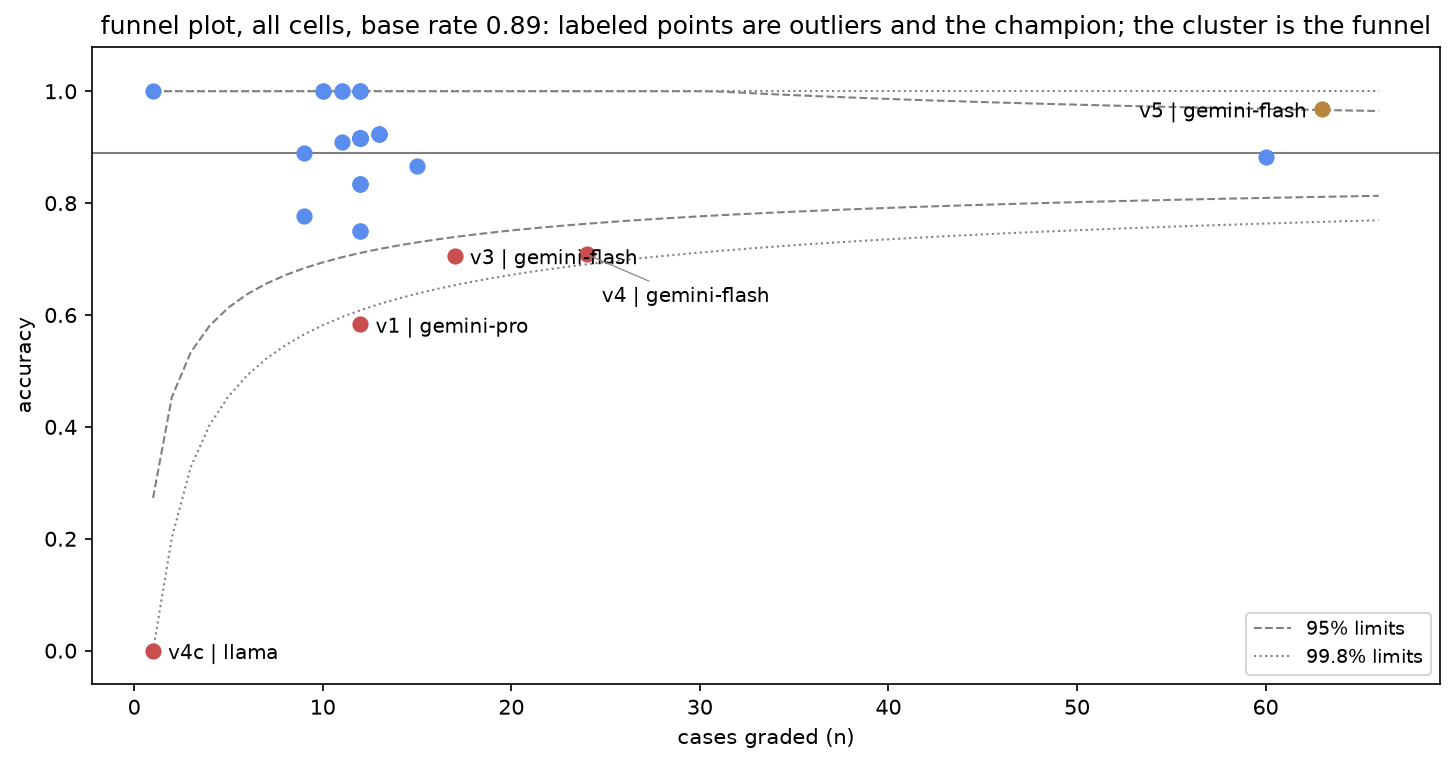
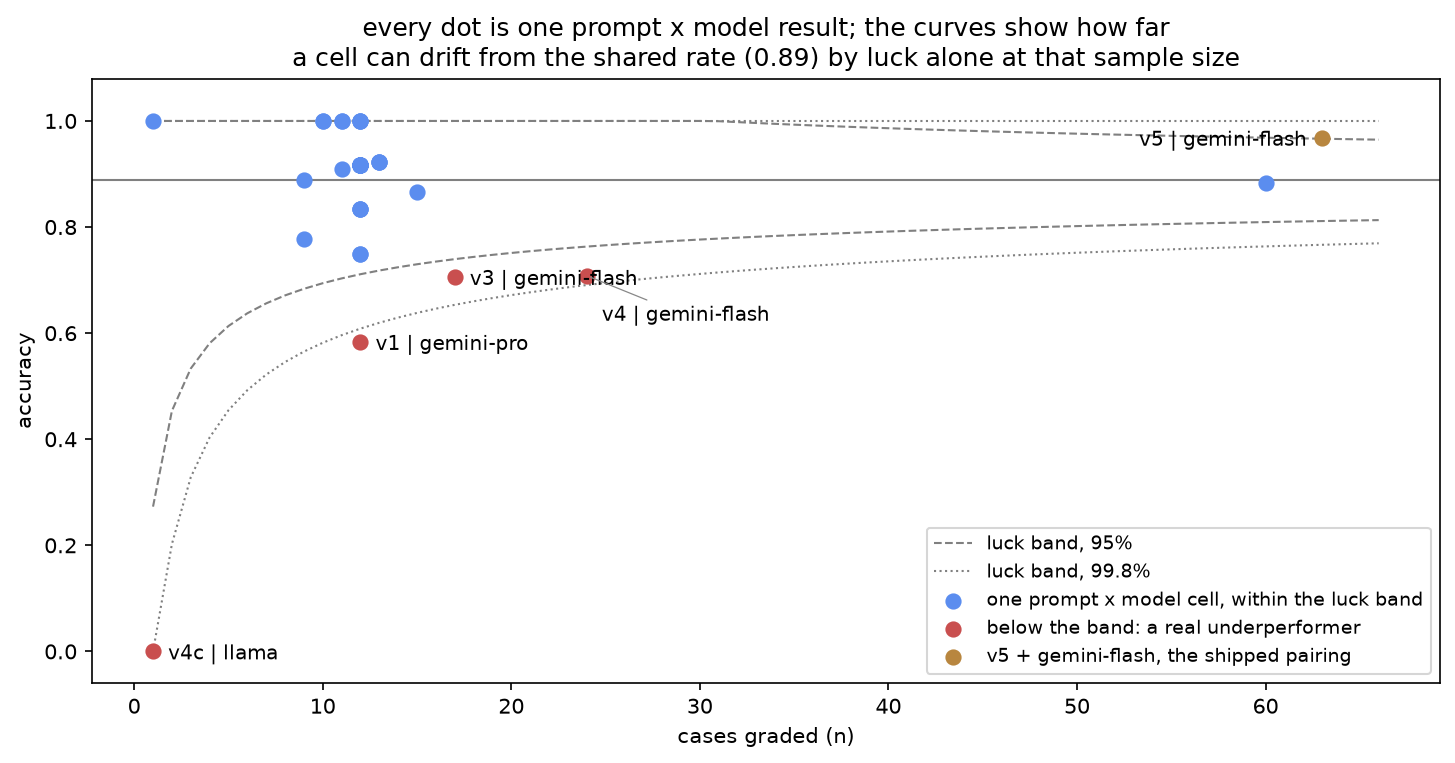
deck: drop the 00:15 build-story slide, self-explaining funnel legend
Operator: planning at 00:15 reads unprofessional to a hiring panel; the
slide is removed from all three deck surfaces and the pack renumbered to
22. Funnel legend now states what each color is (in-band cell, real
underperformer, shipped champion) and the title explains the luck-band
curves, so the plot presents without a narrator. Local only, lab remote
frozen.

Claude-Session: https://claude.ai/code/session_018zAm8oX3fmkFi1fCgmcaHM

diff --git a/tools/plot_funnel.py b/tools/plot_funnel.py
@@ -40,7 +40,7 @@ def main() -> None:
     fig, ax = plt.subplots(figsize=(9.8, 5.2))
     nmax = max(r[2] for r in rows)
     ns = list(range(1, nmax + 4))
-    for z, style, lab in ((1.96, "--", "95% limits"), (3.09, ":", "99.8% limits")):
+    for z, style, lab in ((1.96, "--", "luck band, 95%"), (3.09, ":", "luck band, 99.8%")):
         ax.plot(ns, [min(1, p0 + z * math.sqrt(p0 * (1 - p0) / n)) for n in ns],
                 style, c="gray", lw=1, label=lab)
         ax.plot(ns, [max(0, p0 - z * math.sqrt(p0 * (1 - p0) / n)) for n in ns],
@@ -48,13 +48,21 @@ def main() -> None:
     ax.axhline(p0, c="gray", lw=1)
 
     labeled = []
+    seen_kind = set()
     for pv, model, n, acc in rows:
         lo = p0 - 1.96 * math.sqrt(p0 * (1 - p0) / n)
         outlier = acc < lo or acc <= 0.05
         champion = pv == "v5" and model == "gemini-flash"
+        kind = "champion" if champion else ("outlier" if outlier else "cell")
+        label_for_legend = {
+            "cell": "one prompt x model cell, within the luck band",
+            "outlier": "below the band: a real underperformer",
+            "champion": "v5 + gemini-flash, the shipped pairing",
+        }[kind] if kind not in seen_kind else None
+        seen_kind.add(kind)
         ax.scatter(n, acc, s=46,
                    c="#c94f4f" if outlier else ("#b8863f" if champion else "#5b8def"),
-                   zorder=3)
+                   zorder=3, label=label_for_legend)
         if outlier or champion:
             labeled.append((n, acc, f"{pv} | {model.replace('-super-49b','').replace('-3.3-70b','')}"))
     # global collision pass: push any label that lands near an earlier one
@@ -75,8 +83,8 @@ def main() -> None:
     ax.set_xlabel("cases graded (n)")
     ax.set_ylabel("accuracy")
     ax.set_ylim(-0.06, 1.08)
-    ax.set_title(f"funnel plot, all cells, base rate {p0:.2f}: "
-                 "labeled points are outliers and the champion; the cluster is the funnel")
+    ax.set_title("every dot is one prompt x model result; the curves show how far\n"
+                 f"a cell can drift from the shared rate ({p0:.2f}) by luck alone at that sample size")
     ax.legend(loc="lower right", fontsize=9)
     fig.tight_layout()
     out = DECK / "funnel.png"

diff --git a/tools/deck/build_pptx.py b/tools/deck/build_pptx.py
@@ -187,33 +187,6 @@ note(s, "\"The prompt took two hours. Knowing whether to trust it took the week,
         "week is the part I would bring to the job.\"", top=5.2, color=GOLD)
 
 
-# journey
-s = slide()
-eyebrow(s, "How this was actually built")
-h2(s, "Planned Sunday evening, re-planned at 00:15")
-tf = box(s, 0.9, 2.1, 11.4, 4.4)
-tf.word_wrap = True
-for i, (h, b) in enumerate([
-    ("Sun 08-17, the plan:", "vertical slices around a real calendar (fly Wednesday, remote "
-     "from Bucharest, submit Sunday). By that night the engine, the v1-v4 ladder, and the "
-     "matrix UI already stood, 115 runs banked."),
-    ("The cut list that refused to die:", "the plan cut the live demo, the gated prompt "
-     "loop, and the synthetic factory. At 00:15 on submission day I rejected my own cut "
-     "list; every open item ran between 00:15 and 03:00."),
-    ("What that window produced:", "qwen and nemotron columns, the injection and "
-     "metamorphic suites (8/8 clause coverage), the cross-family judge, a classical-ML "
-     "baseline, a DSPy contrast arm, and v5 itself through the gated loop: first 12/12 "
-     "pass, accepted."),
-    ("glm-5.3, the honest gap:", "wired, then money-blocked on its only route (HTTP 429, "
-     "insufficient balance, banked verbatim). It ships as recorded error rows, not as a column."),
-]):
-    p2 = tf.paragraphs[0] if i == 0 else tf.add_paragraph()
-    r1 = p2.add_run(); r1.text = h + " "
-    r1.font.size = Pt(14); r1.font.bold = True; r1.font.color.rgb = TEXT; r1.font.name = "Inter"
-    r2 = p2.add_run(); r2.text = b
-    r2.font.size = Pt(14); r2.font.color.rgb = MUT; r2.font.name = "Inter"
-    p2.space_after = Pt(12)
-
 # unshown work
 s = slide()
 eyebrow(s, "Measured, banked, and on no other slide")

diff --git a/tools/deck/build_deck_html.py b/tools/deck/build_deck_html.py
@@ -87,19 +87,6 @@ slides.append("""
 
 slides.append("""
 <section class="slide">
-  <div class="eyebrow">How this was actually built</div>
-  <h2>Planned Sunday evening, re&#8209;planned at 00:15</h2>
-  <ul class="verdicts">
-    <li><b>Sun 08&#8209;17, the plan:</b> vertical slices around a real calendar (fly Wednesday, remote from Bucharest, submit Sunday). By that night the engine, the v1&ndash;v4 ladder, and the matrix UI already stood, 115 runs banked.</li>
-    <li><b>The cut list that refused to die:</b> the plan cut the live demo, the gated prompt loop, and the synthetic factory. At 00:15 on submission day I rejected my own cut list; every open item ran between 00:15 and 03:00.</li>
-    <li><b>What that window produced:</b> qwen and nemotron columns, the injection and metamorphic suites (8/8 policy&#8209;clause coverage), the cross&#8209;family judge, a classical&#8209;ML baseline, a DSPy contrast arm, and v5 itself through the gated loop: first 12/12 pass, accepted.</li>
-    <li><b>glm&#8209;5.3, the honest gap:</b> wired, then money&#8209;blocked on its only route (HTTP 429, insufficient balance, banked verbatim). It ships as recorded error rows, not as a column.</li>
-  </ul>
-</section>""")
-
-
-slides.append("""
-<section class="slide">
   <div class="eyebrow">Measured, banked, and on no other slide</div>
   <h2>The work the deck does not show</h2>
   <ul class="commitments">

diff --git a/docs/assets/deck/claude_design_prompt.md b/docs/assets/deck/claude_design_prompt.md
@@ -16,7 +16,7 @@ slide content came from `key_numbers.json` and the ledger and was verified
 
 ## The prompt
 
-Build a 23-slide 16:9 presentation deck named "verdict-bench" for a 45-minute
+Build a 22-slide 16:9 presentation deck named "verdict-bench" for a 45-minute
 technical panel (3 panelists, engineering audience, projected in a room).
 
 Design direction, fixed, not a suggestion:
@@ -57,60 +57,54 @@ Slide content, verbatim where quoted:
    matrix. Chart: funnel.png.
 5. "The two-hour version exists inside this one". The minimal deliverable is
    intact and separable; the lab is the evidence behind it.
-6. "Planned Sunday evening, re-planned at 00:15". The build story: the
-   Sunday plan (engine + ladder + matrix standing that night, 115 runs), the
-   cut list rejected at 00:15 on submission day, the 00:15-03:00 window that
-   produced the qwen/nemotron columns, both robustness suites, the judge,
-   the LR baseline, the DSPy arm, and v5 itself; glm-5.3 wired then
-   money-blocked, shipped as recorded error rows.
-7. "The work the deck does not show". Seven one-liners: LR baseline
+6. "The work the deck does not show". Seven one-liners: LR baseline
    (LOO 8/12 vs LLM 11-12/12, all four misses expensive-direction), DSPy arm
    (12/12 ceiling, different artifact), self-consistency (11/12 unanimous at
    N=5), SPRT (p0=0.75, p1=0.92, a=0.05, b=0.10), beta-binomial ~3:1 odds,
    data provenance (PaySim/ULB verified, IEEE-CIS honestly unverifiable),
    Tauri shell + adjudication queue + number-grounding audit (81-98%).
-8. "Six commitments, fixed before any analysis". The pre-registered gates:
+7. "Six commitments, fixed before any analysis". The pre-registered gates:
    n >= 8, contract >= 0.5, Wilson CI width <= 0.5, max flip 0.25,
    zero-tolerance tripwire, suite separation. The tripwire disqualified 10 of
    38 cells.
-9. "Expected loss, the actual model". The 3x3 cost matrix as a table ($0
+8. "Expected loss, the actual model". The 3x3 cost matrix as a table ($0
    diagonal; false approve $2,000 in gold; false reject $600; false hold $45;
    caught-fraud containment $500, derived). Beside it, the notation:
    EL_1k = (1000/N) SUM_i (1/R) SUM_r C(y_i, yhat_ir); unparseable charged
    worst-case; case-clustered bootstrap B=1,000 seed 1789; Wilson 95% width
    <= 0.5 rankability; EL(pi) prevalence sweep 0.5-5%; queue cost = 1000 x
    p_HOLD x $35.
-10. "One pipeline, every claim traceable to a run". DIAGRAM: 89 labeled
+9. "One pipeline, every claim traceable to a run". DIAGRAM: 89 labeled
     cases + prompt ladder -> runner (7 providers, N=5 repeats) -> sqlite
     ledger -> trust gates -> export -> surfaces. Caption: every surface
     reads one differential-tested export.
-11. "89 labeled cases, five suites, tiers kept apart". Chart: eda_corpus.png.
-12. "Repeats dissolve stories". Chart: injection_repeats.png.
-13. "The gate bites, and ranking survives". Chart: bootstrap_loss.png.
-14. "Stated confidence is decorative; earned confidence is measured". Chart:
+10. "89 labeled cases, five suites, tiers kept apart". Chart: eda_corpus.png.
+11. "Repeats dissolve stories". Chart: injection_repeats.png.
+12. "The gate bites, and ranking survives". Chart: bootstrap_loss.png.
+13. "Stated confidence is decorative; earned confidence is measured". Chart:
     reliability.png (claim pile-up + claimed-vs-earned; at stated 0.90 the
     model was right once in two).
-15. "Triangulated across three families". gemini-flash saturated and
+14. "Triangulated across three families". gemini-flash saturated and
     excluded; claude-haiku and phi-4 discriminate; both discriminating
     families score proportionality lowest. Chart: judge_triangulation.png
     (three judges by three rubric axes, ceiling line drawn).
-16. "64 generated cases found a policy ambiguity". Chart: synthetic_sweep.png.
-17. "Is v5 overfit to nine cases? Three tests, one open risk". Transfer
+15. "64 generated cases found a policy ambiguity". Chart: synthetic_sweep.png.
+16. "Is v5 overfit to nine cases? Three tests, one open risk". Transfer
     (tuned on flash only; 12/12 sonnet, 12/12 haiku, 11/12 gemini-pro),
     post-freeze generated data (56/56 flash, 48/48 qwen), weak columns fail
     for capacity (llama 8/12 on v1 before tuning, 9/12 at v5 with contract
     1.00), the v6 rejection as the discipline check, and the open risk: true
     holdout n=3 (v5 2/3), which is why gates carry the claim.
-18. "A contested case is routed, not resolved". DIAGRAM: archetype -> seven
+17. "A contested case is routed, not resolved". DIAGRAM: archetype -> seven
     models split 20 HOLD / 8 REJECT -> policy underdetermines -> no score ->
     policy owner gets the split. Caption: sanctions-partial fails closed,
     zero APPROVEs in 23 runs.
-19. "A million-case simulation on measured kernels". Chart: population_sim.png.
-20. "The gate does not bend on deadline day". The v6 story. Chart:
+18. "A million-case simulation on measured kernels". Chart: population_sim.png.
+19. "The gate does not bend on deadline day". The v6 story. Chart:
     holdout_funnel.png.
-21. "Ship v5 + gemini-flash, and say what that means". CERTIFIED / SUGGESTED /
+20. "Ship v5 + gemini-flash, and say what that means". CERTIFIED / SUGGESTED /
     DECORATIVE tiers. Chart: holdout.png.
-22. "Out of scope, and what I'd do next given time". Two columns.
+21. "Out of scope, and what I'd do next given time". Two columns.
     Deliberately out of scope, each with its one-line why: tools and skills
     (no function calling or retrieval; tools change the eval surface, so
     they get their own arm), MCP integrations (frozen case file keeps runs
@@ -122,7 +116,7 @@ Slide content, verbatim where quoted:
     labels (SPRT says how many), the v6 injection line, the claude API
     rerun with temperature control, the adjudication queue wired to a real
     reviewer, a tool-augmented variant as a new arm.
-23. "What breaks, in order". Five production risks ranked. Close: the
+22. "What breaks, in order". Five production risks ranked. Close: the
     benchmark's job is to say when not to trust a good-looking answer.
 
 ## Attachments (from docs/assets/deck/)

diff --git a/ui/public/assets/deck/claude_design_prompt.md b/ui/public/assets/deck/claude_design_prompt.md
@@ -16,7 +16,7 @@ slide content came from `key_numbers.json` and the ledger and was verified
 
 ## The prompt
 
-Build a 23-slide 16:9 presentation deck named "verdict-bench" for a 45-minute
+Build a 22-slide 16:9 presentation deck named "verdict-bench" for a 45-minute
 technical panel (3 panelists, engineering audience, projected in a room).
 
 Design direction, fixed, not a suggestion:
@@ -57,60 +57,54 @@ Slide content, verbatim where quoted:
    matrix. Chart: funnel.png.
 5. "The two-hour version exists inside this one". The minimal deliverable is
    intact and separable; the lab is the evidence behind it.
-6. "Planned Sunday evening, re-planned at 00:15". The build story: the
-   Sunday plan (engine + ladder + matrix standing that night, 115 runs), the
-   cut list rejected at 00:15 on submission day, the 00:15-03:00 window that
-   produced the qwen/nemotron columns, both robustness suites, the judge,
-   the LR baseline, the DSPy arm, and v5 itself; glm-5.3 wired then
-   money-blocked, shipped as recorded error rows.
-7. "The work the deck does not show". Seven one-liners: LR baseline
+6. "The work the deck does not show". Seven one-liners: LR baseline
    (LOO 8/12 vs LLM 11-12/12, all four misses expensive-direction), DSPy arm
    (12/12 ceiling, different artifact), self-consistency (11/12 unanimous at
    N=5), SPRT (p0=0.75, p1=0.92, a=0.05, b=0.10), beta-binomial ~3:1 odds,
    data provenance (PaySim/ULB verified, IEEE-CIS honestly unverifiable),
    Tauri shell + adjudication queue + number-grounding audit (81-98%).
-8. "Six commitments, fixed before any analysis". The pre-registered gates:
+7. "Six commitments, fixed before any analysis". The pre-registered gates:
    n >= 8, contract >= 0.5, Wilson CI width <= 0.5, max flip 0.25,
    zero-tolerance tripwire, suite separation. The tripwire disqualified 10 of
    38 cells.
-9. "Expected loss, the actual model". The 3x3 cost matrix as a table ($0
+8. "Expected loss, the actual model". The 3x3 cost matrix as a table ($0
    diagonal; false approve $2,000 in gold; false reject $600; false hold $45;
    caught-fraud containment $500, derived). Beside it, the notation:
    EL_1k = (1000/N) SUM_i (1/R) SUM_r C(y_i, yhat_ir); unparseable charged
    worst-case; case-clustered bootstrap B=1,000 seed 1789; Wilson 95% width
    <= 0.5 rankability; EL(pi) prevalence sweep 0.5-5%; queue cost = 1000 x
    p_HOLD x $35.
-10. "One pipeline, every claim traceable to a run". DIAGRAM: 89 labeled
+9. "One pipeline, every claim traceable to a run". DIAGRAM: 89 labeled
     cases + prompt ladder -> runner (7 providers, N=5 repeats) -> sqlite
     ledger -> trust gates -> export -> surfaces. Caption: every surface
     reads one differential-tested export.
-11. "89 labeled cases, five suites, tiers kept apart". Chart: eda_corpus.png.
-12. "Repeats dissolve stories". Chart: injection_repeats.png.
-13. "The gate bites, and ranking survives". Chart: bootstrap_loss.png.
-14. "Stated confidence is decorative; earned confidence is measured". Chart:
+10. "89 labeled cases, five suites, tiers kept apart". Chart: eda_corpus.png.
+11. "Repeats dissolve stories". Chart: injection_repeats.png.
+12. "The gate bites, and ranking survives". Chart: bootstrap_loss.png.
+13. "Stated confidence is decorative; earned confidence is measured". Chart:
     reliability.png (claim pile-up + claimed-vs-earned; at stated 0.90 the
     model was right once in two).
-15. "Triangulated across three families". gemini-flash saturated and
+14. "Triangulated across three families". gemini-flash saturated and
     excluded; claude-haiku and phi-4 discriminate; both discriminating
     families score proportionality lowest. Chart: judge_triangulation.png
     (three judges by three rubric axes, ceiling line drawn).
-16. "64 generated cases found a policy ambiguity". Chart: synthetic_sweep.png.
-17. "Is v5 overfit to nine cases? Three tests, one open risk". Transfer
+15. "64 generated cases found a policy ambiguity". Chart: synthetic_sweep.png.
+16. "Is v5 overfit to nine cases? Three tests, one open risk". Transfer
     (tuned on flash only; 12/12 sonnet, 12/12 haiku, 11/12 gemini-pro),
     post-freeze generated data (56/56 flash, 48/48 qwen), weak columns fail
     for capacity (llama 8/12 on v1 before tuning, 9/12 at v5 with contract
     1.00), the v6 rejection as the discipline check, and the open risk: true
     holdout n=3 (v5 2/3), which is why gates carry the claim.
-18. "A contested case is routed, not resolved". DIAGRAM: archetype -> seven
+17. "A contested case is routed, not resolved". DIAGRAM: archetype -> seven
     models split 20 HOLD / 8 REJECT -> policy underdetermines -> no score ->
     policy owner gets the split. Caption: sanctions-partial fails closed,
     zero APPROVEs in 23 runs.
-19. "A million-case simulation on measured kernels". Chart: population_sim.png.
-20. "The gate does not bend on deadline day". The v6 story. Chart:
+18. "A million-case simulation on measured kernels". Chart: population_sim.png.
+19. "The gate does not bend on deadline day". The v6 story. Chart:
     holdout_funnel.png.
-21. "Ship v5 + gemini-flash, and say what that means". CERTIFIED / SUGGESTED /
+20. "Ship v5 + gemini-flash, and say what that means". CERTIFIED / SUGGESTED /
     DECORATIVE tiers. Chart: holdout.png.
-22. "Out of scope, and what I'd do next given time". Two columns.
+21. "Out of scope, and what I'd do next given time". Two columns.
     Deliberately out of scope, each with its one-line why: tools and skills
     (no function calling or retrieval; tools change the eval surface, so
     they get their own arm), MCP integrations (frozen case file keeps runs
@@ -122,7 +116,7 @@ Slide content, verbatim where quoted:
     labels (SPRT says how many), the v6 injection line, the claude API
     rerun with temperature control, the adjudication queue wired to a real
     reviewer, a tool-augmented variant as a new arm.
-23. "What breaks, in order". Five production risks ranked. Close: the
+22. "What breaks, in order". Five production risks ranked. Close: the
     benchmark's job is to say when not to trust a good-looking answer.
 
 ## Attachments (from docs/assets/deck/)
